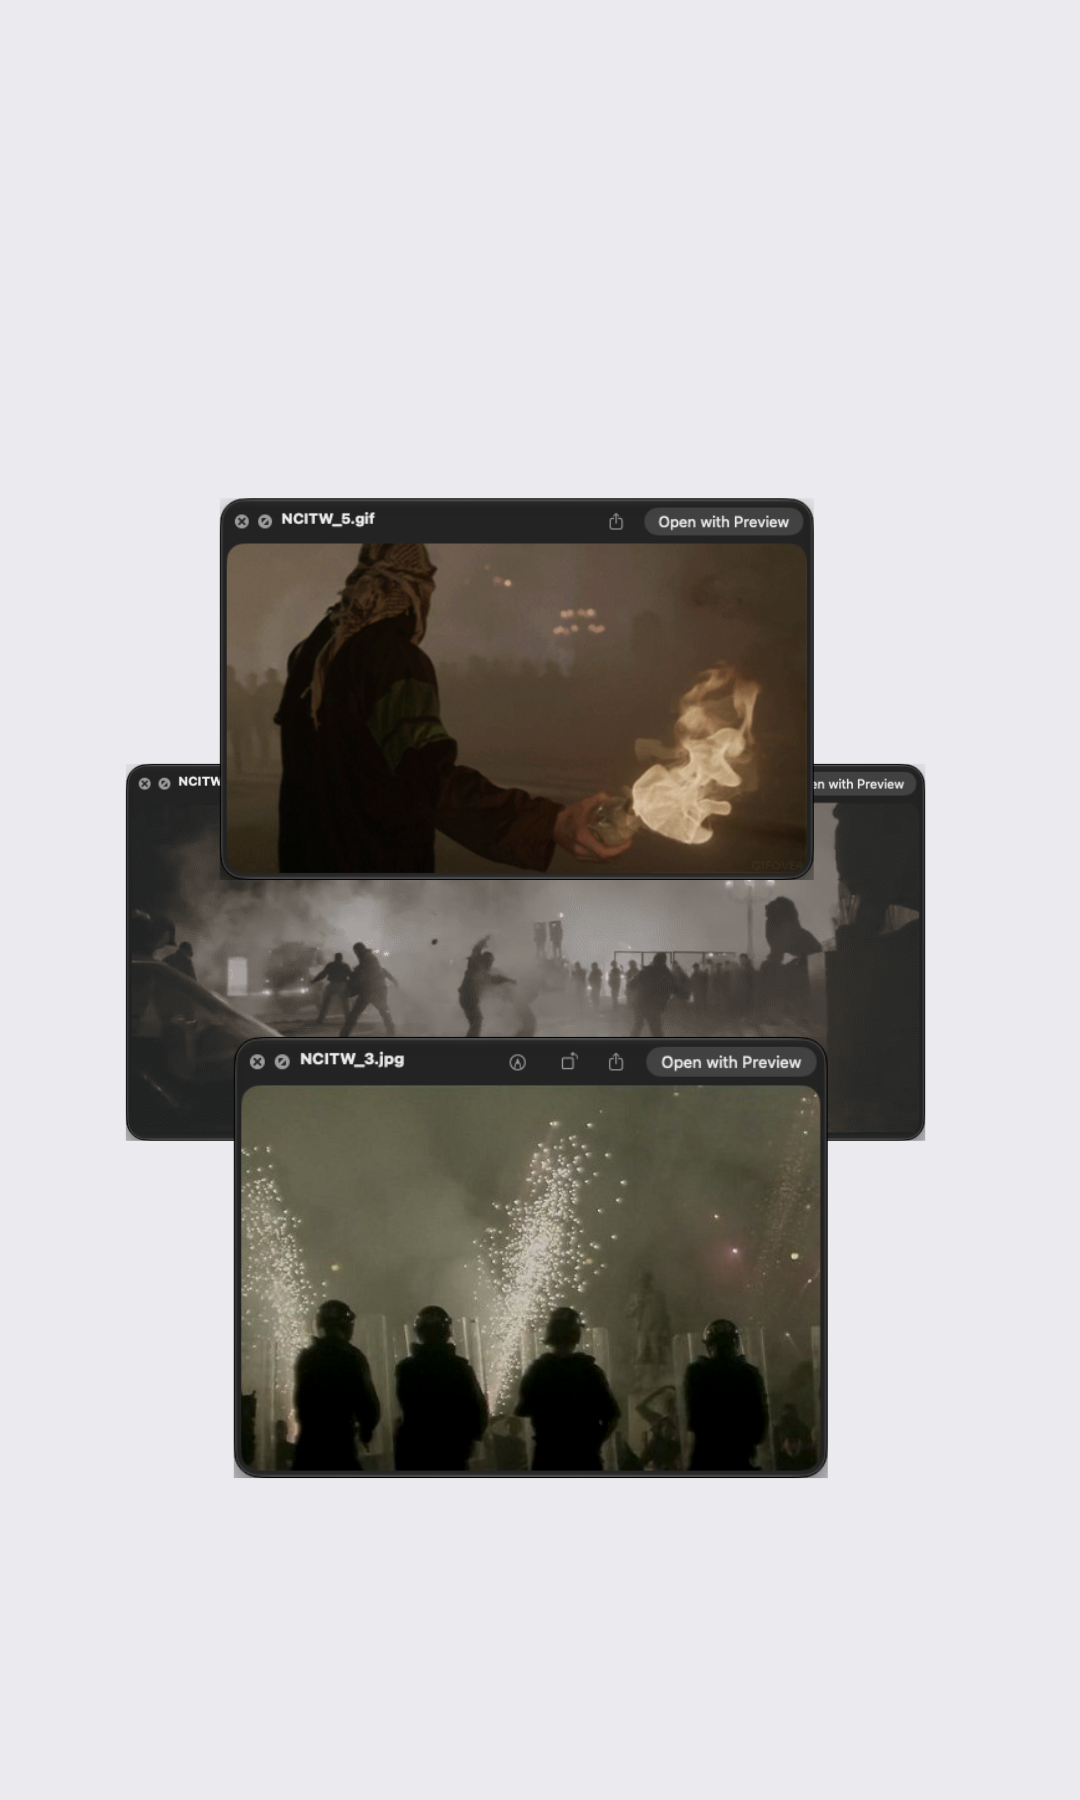
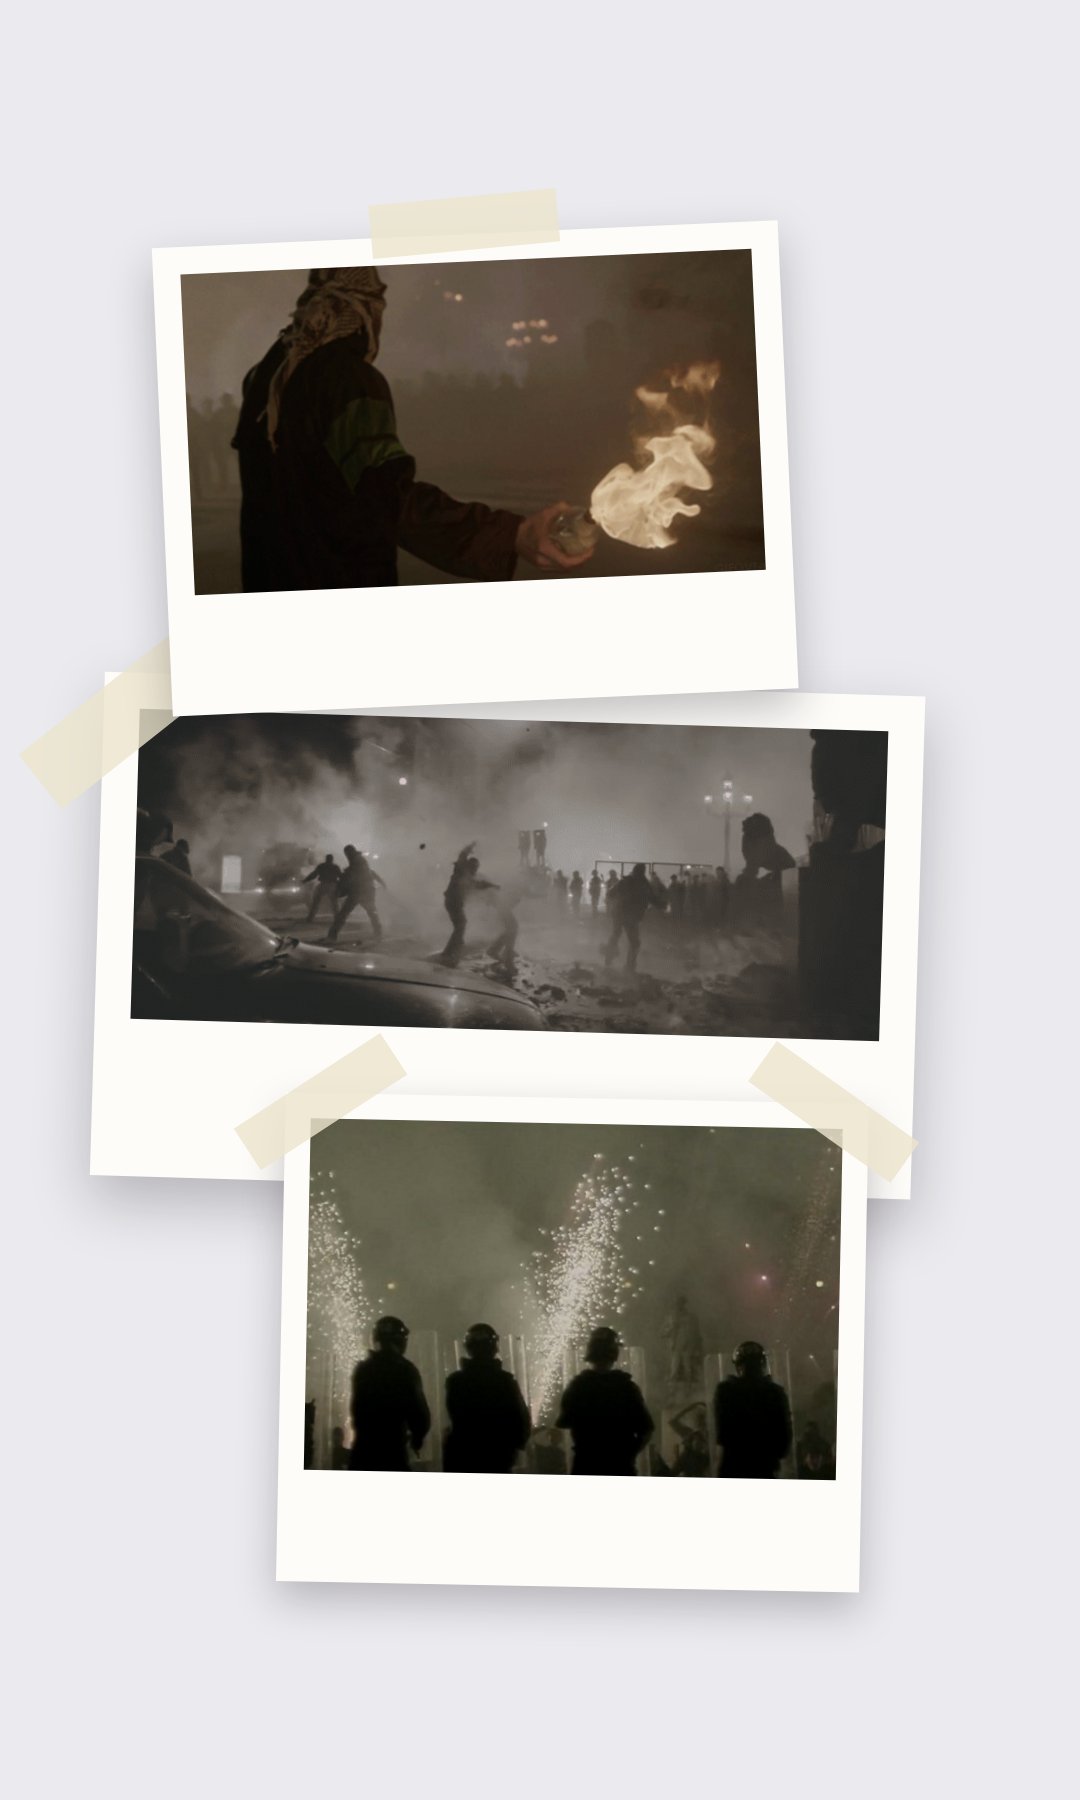
Curation: covers hang as prints too — RIOTS' cover re-made as polaroids; Studio bakes cover boards as prints (shared assets/prints.js)

diff --git a/assets/prints.js b/assets/prints.js
@@ -1,0 +1,42 @@
+/* Prints — a picture as a polaroid: white border, the photo, a writing strip
+   (its note in Isaac's hand), a strip of tape. Shared by Studio (baking covers)
+   and anything else that draws prints on a canvas.
+
+   A board window is MacWin's Preview window baked at 2× around the photo
+   (37pt title bar, 3pt sides, the long side of the photo 720pt): `bare`
+   finds the photo inside it. */
+(function () {
+  "use strict";
+  if (window.Prints) return;
+  function bare(im) {
+    var nw = im.naturalWidth, nh = im.naturalHeight, k = Math.max(nw / 726, nh / 760), e = 5 * k;
+    return { x: 3 * k + e, y: 37 * k + e, w: nw - 6 * k - 2 * e, h: nh - 40 * k - 2 * e };
+  }
+  // draw a print `PW` wide with its top-left at (x, y), turned `o.angle` about its centre.
+  // o: { window: the picture is a baked Preview window, angle, tape: "top"|"corner"|"both", note }
+  function draw(ctx, im, x, y, PW, o) {
+    o = o || {};
+    var s = o.window ? bare(im) : { x: 0, y: 0, w: im.naturalWidth, h: im.naturalHeight };
+    var pw = PW / 1.096, fr = pw * 0.048, ph = pw * s.h / s.w, bottom = pw * 0.21, PH = ph + fr + bottom;
+    ctx.save();
+    ctx.translate(x + PW / 2, y + PH / 2); ctx.rotate(o.angle || 0); ctx.translate(-PW / 2, -PH / 2);
+    ctx.save(); ctx.shadowColor = "rgba(30,25,30,0.26)"; ctx.shadowBlur = PW * 0.07; ctx.shadowOffsetY = PW * 0.03;
+    ctx.fillStyle = "#fdfcf9"; ctx.fillRect(0, 0, PW, PH); ctx.restore();
+    ctx.imageSmoothingQuality = "high";
+    ctx.drawImage(im, s.x, s.y, s.w, s.h, fr, fr, pw, ph);
+    if (o.note) {
+      var size = Math.max(12, pw * 0.062); ctx.font = size + 'px "My Hand", Charter, Georgia, serif'; ctx.fillStyle = "#1f1d20";
+      ctx.fillText(String(o.note).slice(0, 60), fr + 2, ph + fr + size * 1.35);
+    }
+    ctx.fillStyle = "rgba(235,228,205,0.82)";
+    var tw = PW * 0.3, th = PW * 0.085;
+    function strip(cx, cy, a) { ctx.save(); ctx.translate(cx, cy); ctx.rotate(a); ctx.fillRect(-tw / 2, -th / 2, tw, th); ctx.restore(); }
+    var t = o.tape || "top";
+    if (t === "top") strip(PW / 2, -th * 0.2, -0.05);
+    if (t === "corner") strip(PW * 0.04, PW * 0.04, -0.7);
+    if (t === "both") { strip(PW * 0.06, PW * 0.015, -0.6); strip(PW * 0.94, PW * 0.015, 0.6); }
+    ctx.restore();
+    return PH;
+  }
+  window.Prints = { bare: bare, draw: draw };
+})();

diff --git a/admin/editor.js b/admin/editor.js
@@ -819,7 +819,12 @@
       ctx.fillStyle = cover.bg || "#ebebef"; ctx.fillRect(0, 0, W, H);
       var items = cover.items.slice().sort(function (a, b) { return (a.z || 0) - (b.z || 0); });
       Promise.all(items.map(function (it) { return new Promise(function (r) { var im = new Image(); im.onload = function () { r({ it: it, im: im }); }; im.onerror = function () { r(null); }; im.src = it.src; }); }))
-        .then(function (arr) { arr.forEach(function (o) { if (!o) return; var dw = o.it.w / 100 * W, dh = dw * (o.im.naturalHeight / o.im.naturalWidth); ctx.save(); if (o.it.win) itemShadow(ctx, dw); ctx.drawImage(o.im, o.it.x / 100 * W, o.it.y / 100 * H, dw, dh); ctx.restore(); }); c.toBlob(resolve, "image/png"); });
+        .then(function (arr) {
+          // every picture on the cover hangs as a print (the photo out of its window, if it has one)
+          var tilts = [-0.04, 0.035, -0.02, 0.045], tapes = ["top", "corner", "top", "both"];
+          arr.forEach(function (o, i) { if (!o) return; Prints.draw(ctx, o.im, o.it.x / 100 * W, o.it.y / 100 * H, o.it.w / 100 * W, { window: !!o.it.win, angle: tilts[i % 4], tape: tapes[i % 4] }); });
+          c.toBlob(resolve, "image/png");
+        });
     });
   }
   function coverField() {

diff --git a/admin/index.html b/admin/index.html
@@ -84,6 +84,7 @@
   <script src="https://cdn.jsdelivr.net/npm/gif.js@0.2.0/dist/gif.js"></script>
   <script src="/assets/macwin.js?v=4"></script>
   <script src="/assets/sharecard.js?v=1"></script>
-  <script src="/admin/editor.js?v=34"></script>
+  <script src="/assets/prints.js?v=1"></script>
+  <script src="/admin/editor.js?v=35"></script>
 </body>
 </html>
